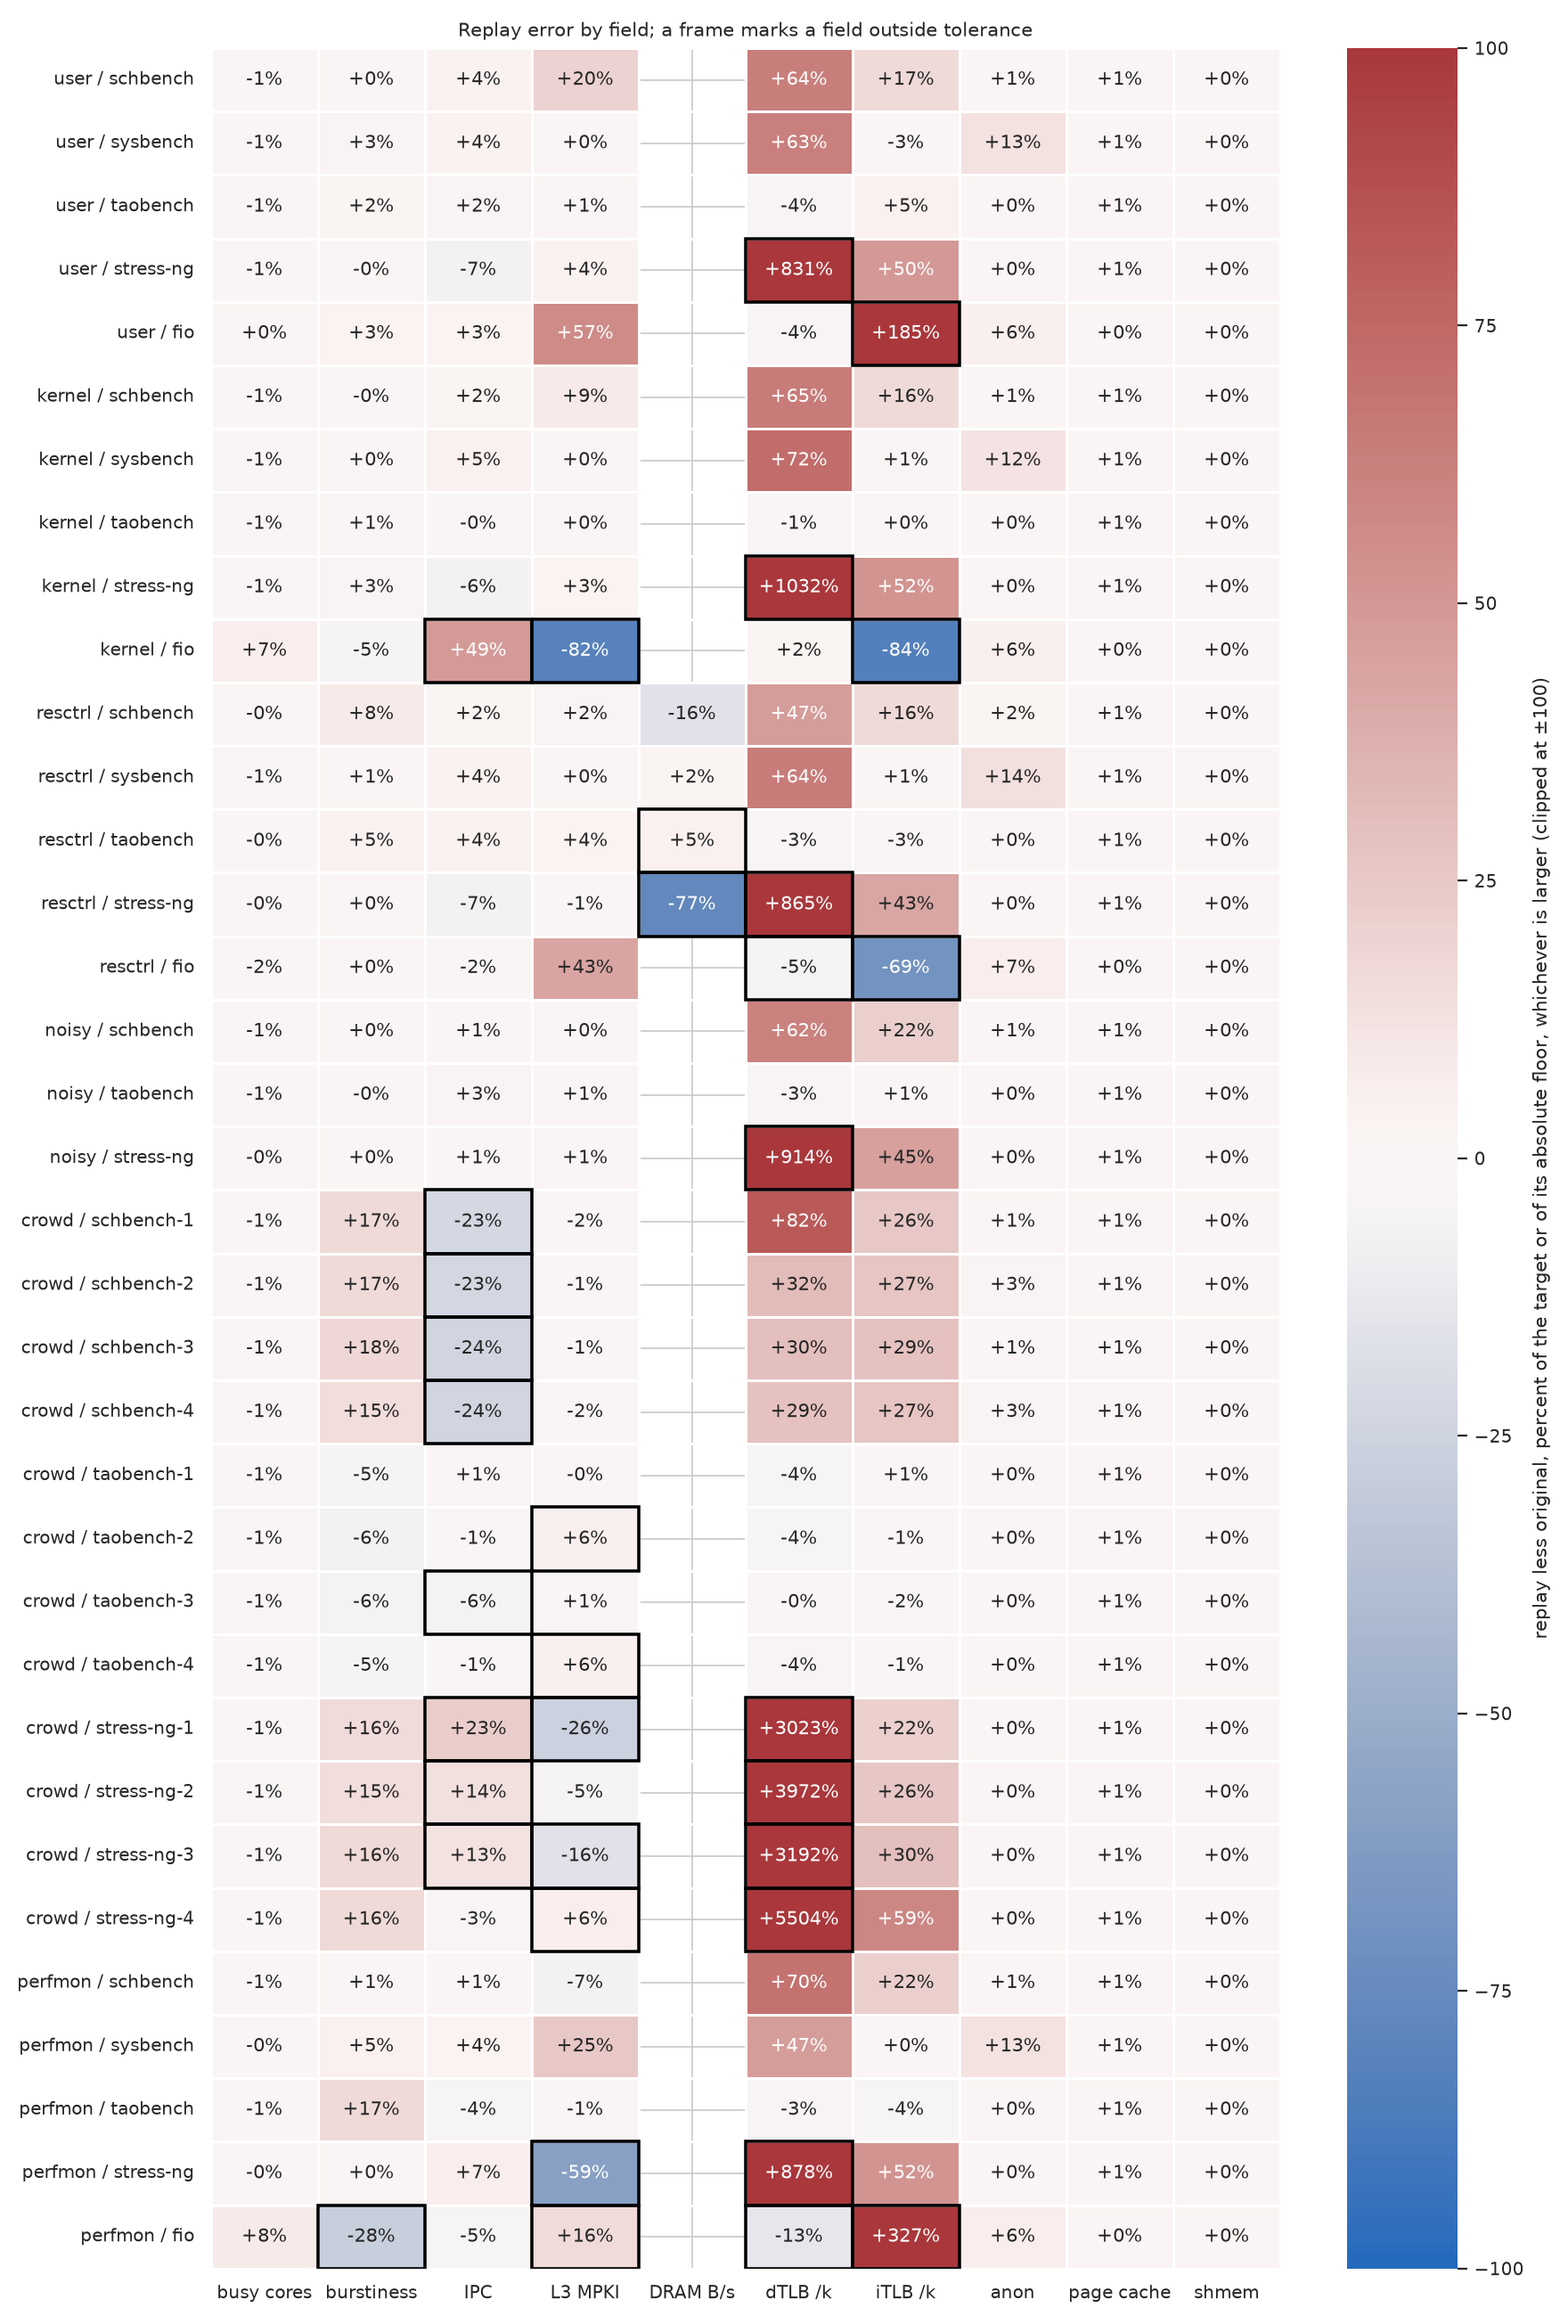
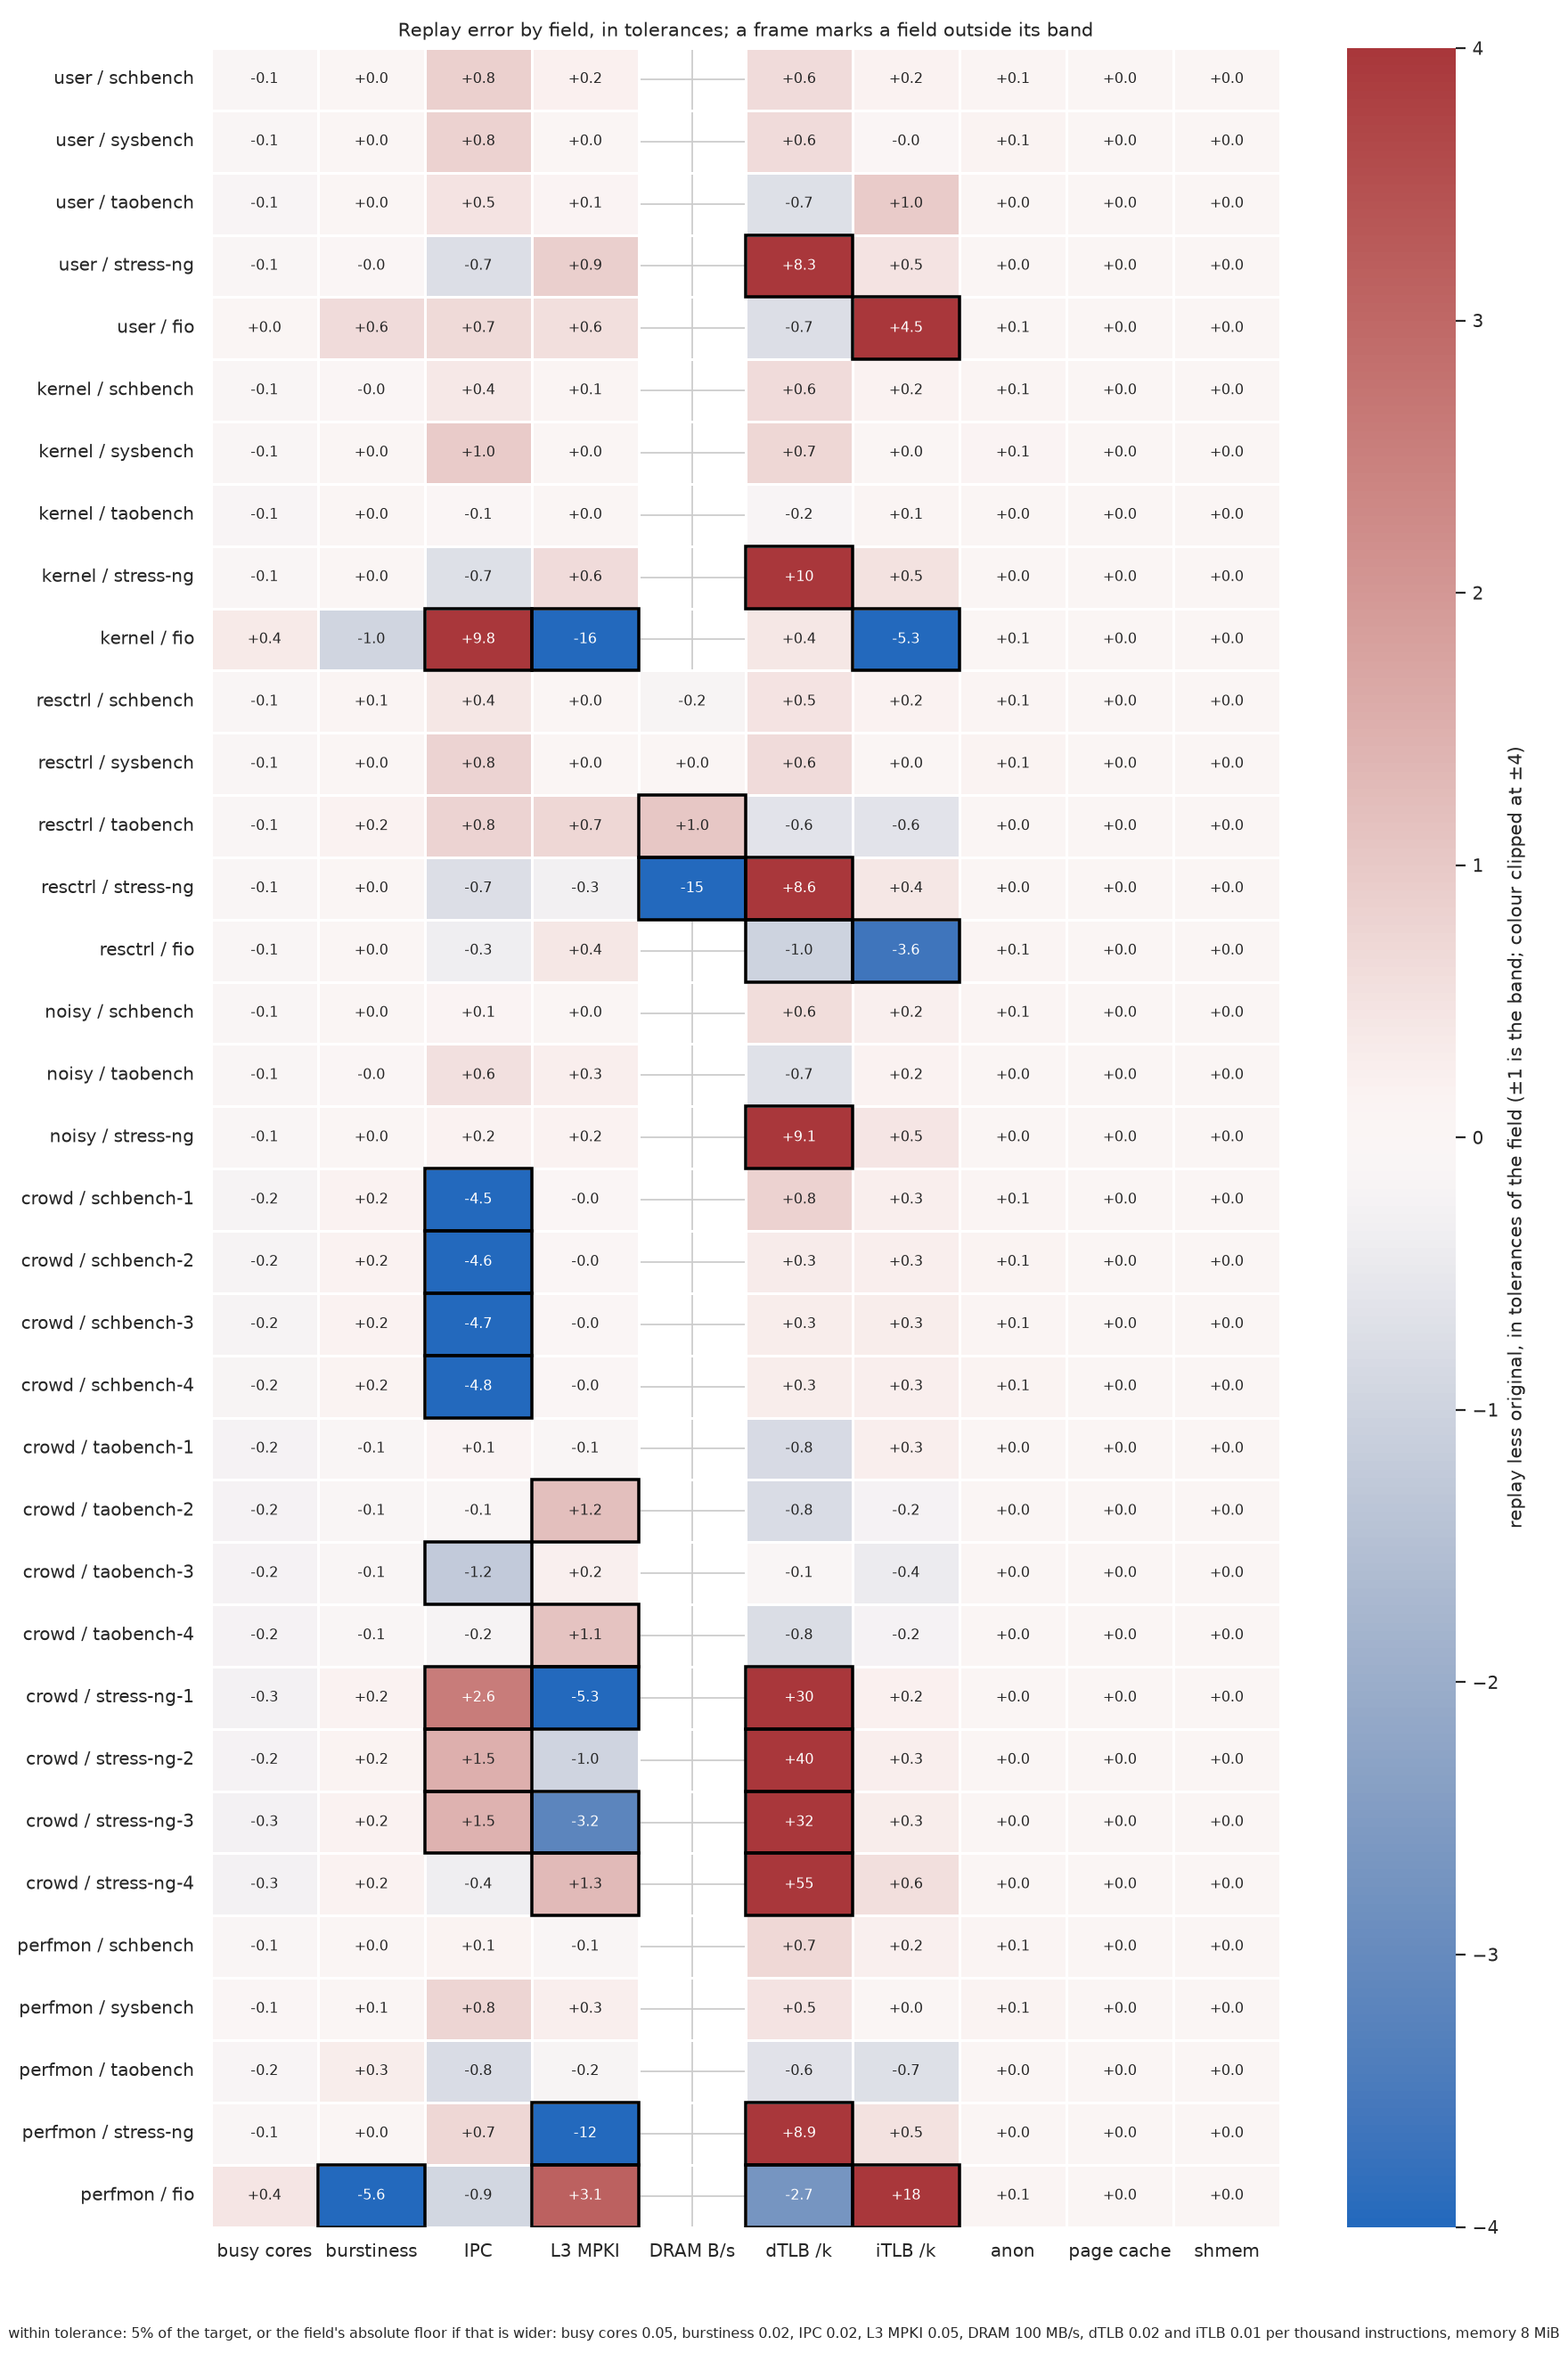
Say what tolerance is on the figures, and count errors in it
The fields-within figure counted fields inside a tolerance it never
defined, and the error heatmap mixed percent of the target with
percent of a floor. Both figures now carry the definition, five
percent of the target or the field's absolute floor, and the heatmap
shows every error in units of its field's tolerance, so a cell reads
the same way whatever the field: within one is inside the band, and
a frame is any cell beyond it. The status no longer lists the Pages
workflow as unrun: the site is enabled and the book deployed.

diff --git a/experiments/plot.py b/experiments/plot.py
@@ -4,8 +4,9 @@
 Reads docs/experiments/<mode>/<benchmark>/{compare.json,report.json} and
 writes PNGs, inlined by docs/experiments.md, to docs/experiments/plots/:
 
-  errors.png        signed relative error of the replay against the
-                    original, every field, every benchmark, every mode
+  errors.png        signed error of the replay against the original in
+                    units of each field's tolerance, every field,
+                    benchmark and mode
   within.png        fields within tolerance per benchmark and mode; the
                     crowd mode's copies of a profile are one bar with
                     their range
@@ -82,6 +83,14 @@ def tolerance(key: str, target: float) -> float:
     return max(RATIO * abs(target), FLOORS.get(key, 0.0))
 
 
+# What "within tolerance" means, for the figures that count it.
+TOLERANCE_NOTE = (
+    f"within tolerance: {RATIO:.0%} of the target, or the field's absolute floor if that is wider: "
+    "busy cores 0.05, burstiness 0.02, IPC 0.02, L3 MPKI 0.05, DRAM 100 MB/s, "
+    "dTLB 0.02 and iTLB 0.01 per thousand instructions, memory 8 MiB"
+)
+
+
 def load(root: Path):
     rows, fits = [], []
     for mode in MODES:
@@ -98,13 +107,15 @@ def load(root: Path):
             for r in compare["rows"]:
                 if r.get("actual") is None:
                     continue
-                scale = max(abs(r["expected"]), FLOORS.get(r["key"], 0.0))
+                tol = tolerance(r["key"], r["expected"])
                 rows.append(
                     dict(
                         mode=mode,
                         benchmark=bench,
                         field=r["key"],
-                        error=(r["actual"] - r["expected"]) / scale if scale > 0 else 0.0,
+                        # The error in units of the field's tolerance: the
+                        # band is one either way, whatever the field.
+                        error=(r["actual"] - r["expected"]) / tol if tol > 0 else 0.0,
                         within=r["within"],
                     )
                 )
@@ -150,20 +161,21 @@ def errors(df: pd.DataFrame, out: Path):
     pivot = pivot.reindex(order)
     within = df.pivot_table(index="row", columns="field", values="within", observed=False)
     within = within.reindex(order)
-    shown = (pivot * 100).clip(-100, 100)
-    annot = pivot.map(lambda e: "" if pd.isna(e) else f"{e * 100:+.0f}%")
-    fig, ax = plt.subplots(figsize=(11, 0.42 * len(order) + 1.6))
+    shown = pivot.clip(-4, 4)
+    annot = pivot.map(lambda e: "" if pd.isna(e) else (f"{e:+.1f}" if abs(e) < 10 else f"{e:+.0f}"))
+    fig, ax = plt.subplots(figsize=(11, 0.42 * len(order) + 1.8))
     sns.heatmap(
         shown,
         cmap="vlag",
         center=0,
-        vmin=-100,
-        vmax=100,
+        vmin=-4,
+        vmax=4,
         annot=annot,
         fmt="",
+        annot_kws=dict(size=7),
         linewidths=0.5,
         cbar_kws=dict(
-            label="replay less original, percent of the target or of its absolute floor, whichever is larger (clipped at ±100)"
+            label="replay less original, in tolerances of the field (±1 is the band; colour clipped at ±4)"
         ),
         ax=ax,
     )
@@ -177,8 +189,9 @@ def errors(df: pd.DataFrame, out: Path):
             )
     ax.set_xlabel("")
     ax.set_ylabel("")
-    ax.set_title("Replay error by field; a frame marks a field outside tolerance")
-    fig.tight_layout()
+    ax.set_title("Replay error by field, in tolerances; a frame marks a field outside its band")
+    fig.text(0.5, 0.005, TOLERANCE_NOTE, ha="center", va="bottom", fontsize=7, wrap=True)
+    fig.tight_layout(rect=(0, 0.03, 1, 1))
     save(fig, out, "errors")
 
 
@@ -209,7 +222,8 @@ def within(df: pd.DataFrame, out: Path):
     ax.set_ylabel("fields within tolerance (of fields measured, grey)")
     ax.set_xlabel("")
     ax.legend(title="mode", ncols=6, loc="lower center", bbox_to_anchor=(0.5, 1.02))
-    fig.tight_layout()
+    fig.text(0.5, 0.005, TOLERANCE_NOTE, ha="center", va="bottom", fontsize=7, wrap=True)
+    fig.tight_layout(rect=(0, 0.05, 1, 1))
     save(fig, out, "within")
 
 

diff --git a/docs/experiments.md b/docs/experiments.md
@@ -64,13 +64,18 @@ inlined below. How to read them:
   with the fields within tolerance over the fields the recorder
   measured, the latter in grey behind it; the crowd mode's four
   copies of a profile are one bar at their mean with a line for
-  their range.
+  their range. Tolerance is 5 percent of the target or, where that is
+  wider, the field's absolute floor: 0.05 busy cores, 0.02 of
+  burstiness, 0.02 IPC, 0.05 L3 MPKI, 100 MB/s of bandwidth, 0.02
+  dTLB and 0.01 iTLB events per thousand instructions, 8 MiB of
+  memory, as `docs/design.md` section 6 defines them.
 - **error heatmap** (`errors.png`): replay less original, per field,
-  as a percentage of the target or of the field's absolute floor,
-  whichever is larger, so a dTLB rate of 0.17 against 0.003 reads as
-  hundreds of percent of a floor of 0.02 rather than thousands of
-  the target; red is over, blue under, a black frame marks a field
-  outside tolerance, and the colour is clipped at a hundred percent.
+  in units of that field's tolerance, so every cell reads the same
+  way: between -1 and +1 is within the band, +2 is twice the
+  tolerance over, and a dTLB rate of 0.17 against 0.003 reads as
+  eight floors over rather than thousands of percent; red is over,
+  blue under, a black frame marks a field outside its band, and the
+  colour is clipped at four tolerances.
 - **convergence** (`convergence.png`): the second of the last knob
   move of each fit, a cross marking a fit that did not converge,
   because a target was out of reach or the fit held a compromise.
@@ -155,7 +160,7 @@ figures under `docs/experiments/plots/`.
 
 ![Fields within tolerance per benchmark and mode; grey is the fields measured](experiments/plots/within.png)
 
-![Replay error by field, benchmark and mode; a frame marks a field outside tolerance](experiments/plots/errors.png)
+![Replay error by field, benchmark and mode, in units of each field's tolerance; a frame marks a field outside its band](experiments/plots/errors.png)
 
 ![Seconds to the last knob move per benchmark and mode](experiments/plots/convergence.png)
 

diff --git a/docs/status.md b/docs/status.md
@@ -21,10 +21,6 @@ Linux 7.2, THP `always`, `perf_event_paranoid` 2) unless noted.
 
 Not verified anywhere:
 
-- the Pages workflow in `.github/workflows/pages.yml` has not deployed
-  the book: the repository's Pages site has to be enabled once by its
-  owner, which neither the workflow's token nor the `gh` token could
-  do; the lint workflow runs and passes;
 - the Intel and Arm event tables come from the kernel's `pmu-events`
   at v7.1 and are checked only against fixtures, never on that
   hardware;
